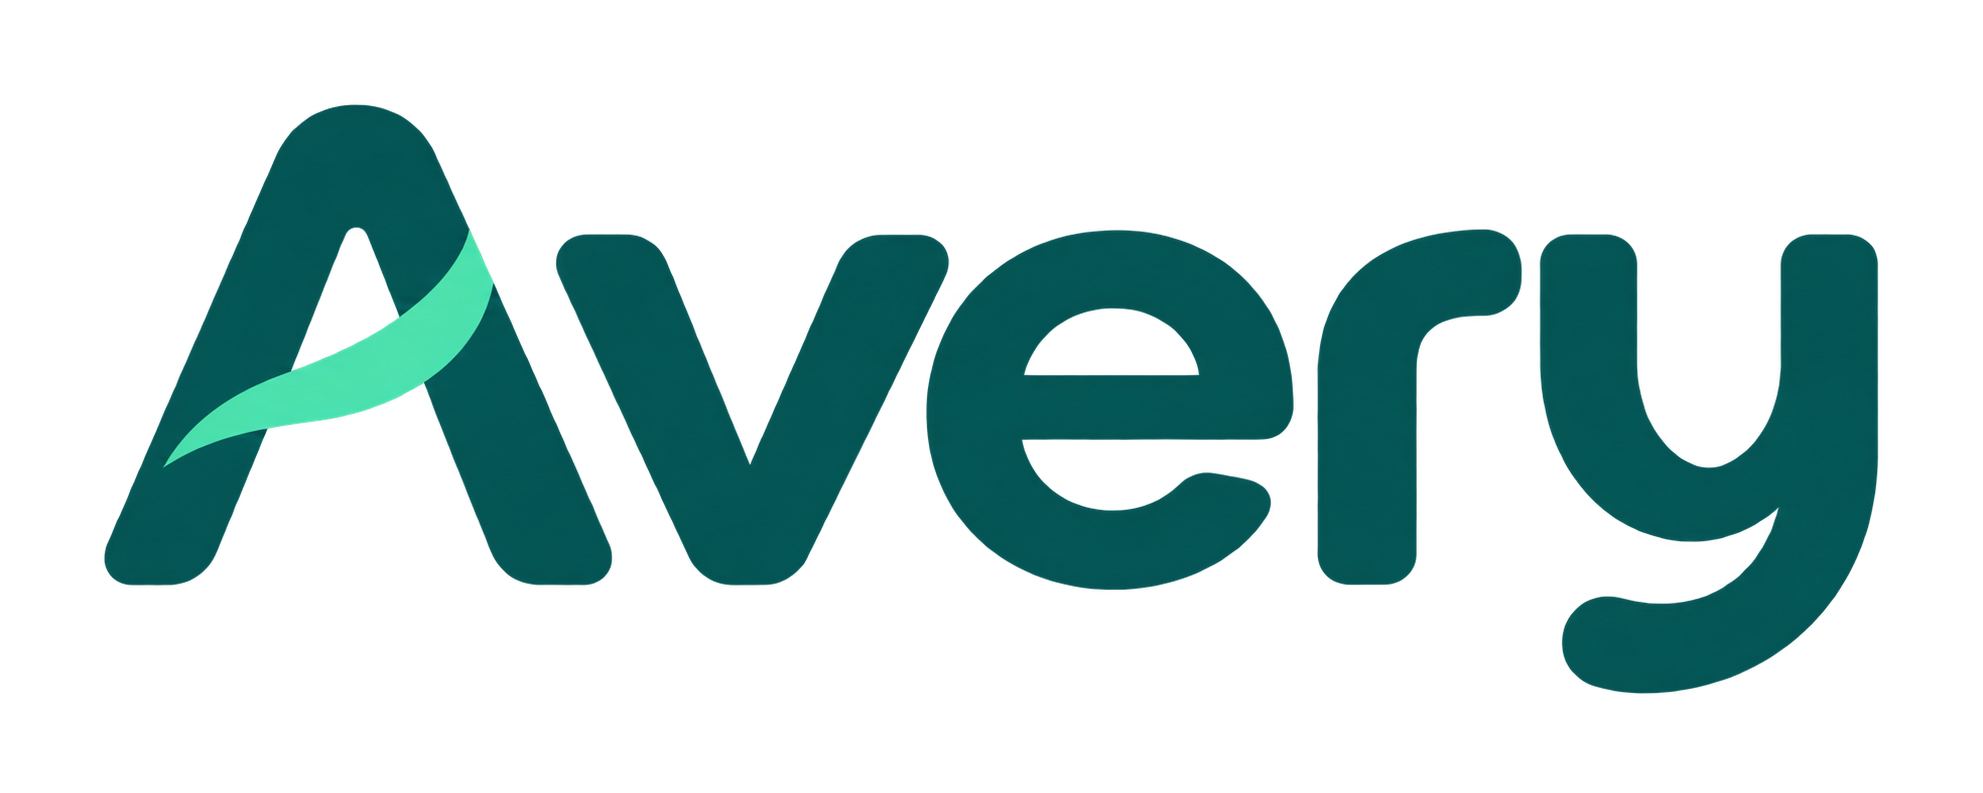
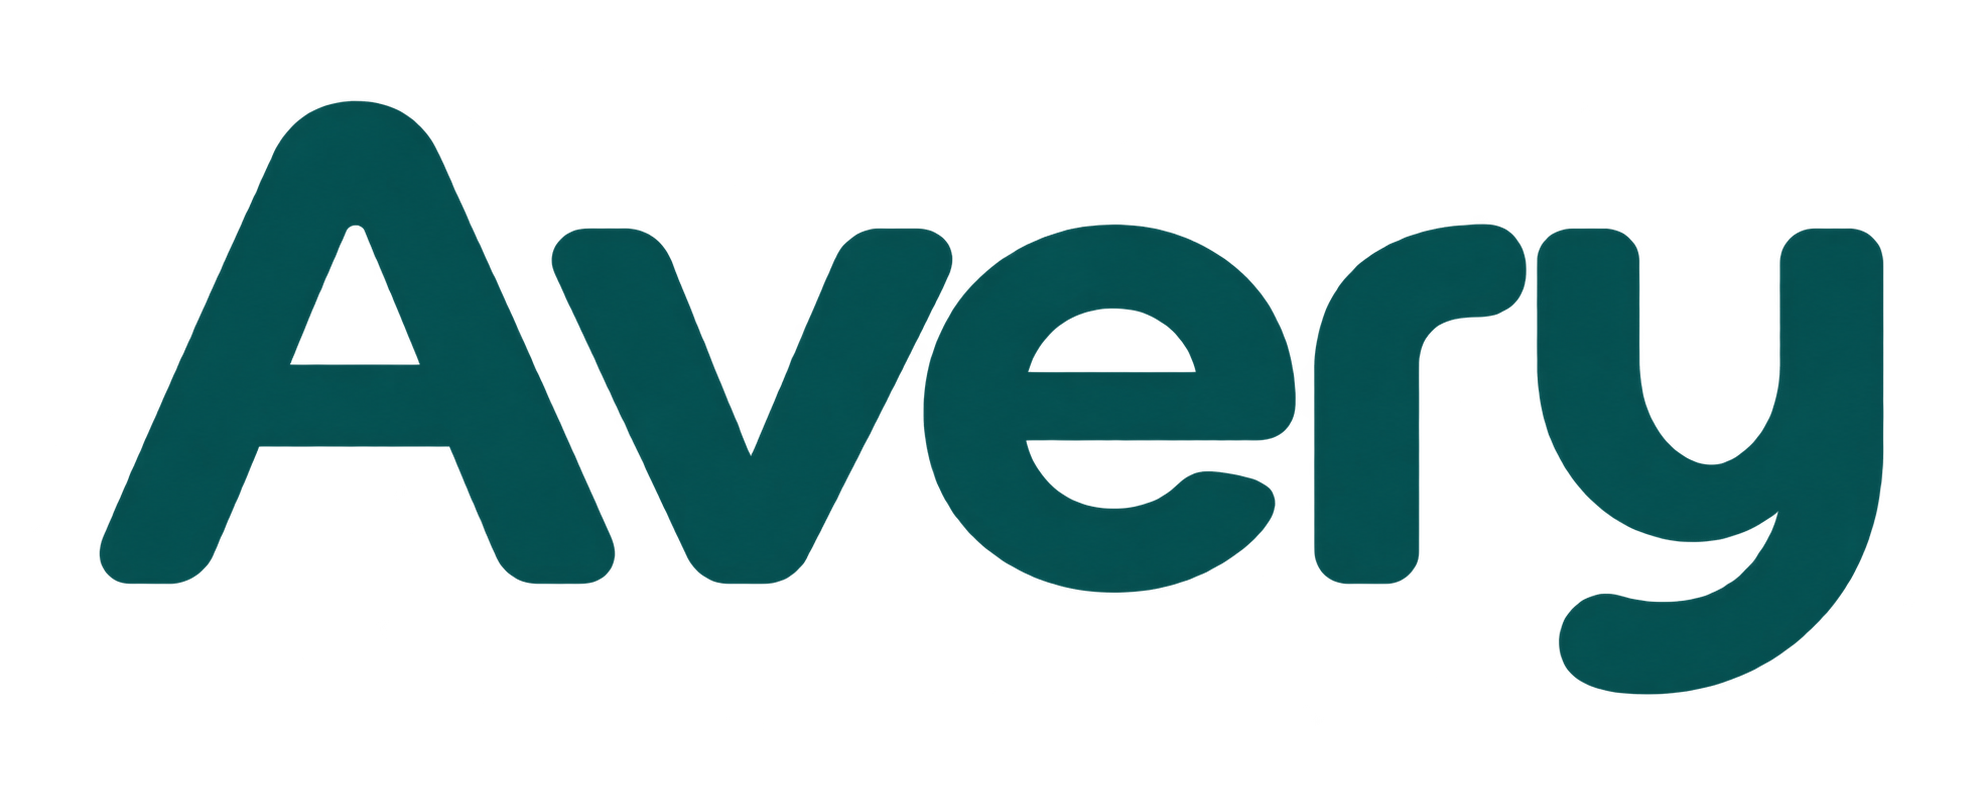
fix(brand): 更新字标并调整启动页品牌对齐与页面样式

diff --git a/src/app/StartupScreen.tsx b/src/app/StartupScreen.tsx
@@ -1,9 +1,19 @@
 import { useEffect, useRef, useState } from 'react';
-import { BrandAssets } from '../shared/brand';
+import { BrandAssets, BrandGeometry } from '../shared/brand';
 import { Button, EmptyState } from '../shared/components/UI';
 import { Icon } from '../shared/components/Icon';
 
 type Props = { animationComplete: boolean; onAnimationComplete: () => void };
+
+// 字标保留原画布尺寸，起点向右留出放大图标所需的间距。
+const WordmarkBox = { x: 96, y: 0, width: 280, height: 112 };
+const WordmarkScale = Math.min(WordmarkBox.width / BrandGeometry.wordmark.width, WordmarkBox.height / BrandGeometry.wordmark.height);
+const WordmarkOffsetY = (WordmarkBox.height - BrandGeometry.wordmark.height * WordmarkScale) / 2;
+// 图片含透明留白；按 A 的实际上下边界计算图标大小与位置，使两者可见轮廓等高、底边对齐。
+const SplashIconSize = (BrandGeometry.wordmark.capitalBottom - BrandGeometry.wordmark.capitalTop) * WordmarkScale
+  * BrandGeometry.icon.height / (BrandGeometry.icon.bottom - BrandGeometry.icon.top);
+const SplashIconY = WordmarkBox.y + WordmarkOffsetY + BrandGeometry.wordmark.capitalTop * WordmarkScale
+  - BrandGeometry.icon.top / BrandGeometry.icon.height * SplashIconSize;
 
 /** 开屏只播放一次；动画结束后保持最后一帧，由上层等待工作空间就绪。 */
 export function StartupScreen({ animationComplete, onAnimationComplete }: Props) {
@@ -44,7 +54,7 @@ export function StartupScreen({ animationComplete, onAnimationComplete }: Props)
 
   return <div className="app-screen app-splash" role="status" aria-live="polite" aria-label="正在启动 Avery" aria-busy="true">
     <div className="app-splash-content">
-      <svg className="app-splash-brand" viewBox="0 0 360 112" role="img" aria-label="Avery">
+      <svg className="app-splash-brand" viewBox={`0 0 ${WordmarkBox.x + WordmarkBox.width} ${WordmarkBox.height}`} role="img" aria-label="Avery">
         <defs>
           <linearGradient id="avery-splash-reveal-gradient" x1="0" y1="0" x2="1" y2="0">
             <stop offset="0" stopColor="white" /><stop offset="0.76" stopColor="white" /><stop offset="1" stopColor="white" stopOpacity="0" />
@@ -56,8 +66,8 @@ export function StartupScreen({ animationComplete, onAnimationComplete }: Props)
           </mask>
         </defs>
         <g mask="url(#avery-splash-reveal-mask)">
-          <image href={BrandAssets.icon} x="0" y="24" width="64" height="64" preserveAspectRatio="xMidYMid meet" />
-          <image href={BrandAssets.wordmark} x="80" y="0" width="280" height="112" preserveAspectRatio="xMidYMid meet" />
+          <image href={BrandAssets.icon} x="0" y={SplashIconY} width={SplashIconSize} height={SplashIconSize} preserveAspectRatio="xMidYMid meet" />
+          <image href={BrandAssets.wordmark} {...WordmarkBox} preserveAspectRatio="xMidYMid meet" />
         </g>
       </svg>
     </div>

diff --git a/src/styles/shell.css b/src/styles/shell.css
@@ -483,7 +483,6 @@ button { background: none; border: 0; }
   text-align: center; animation: viewIn .5s var(--ease) both;
 }
 .empty h1 { display: inline-flex; align-items: center; justify-content: center; gap: .35em; max-width: 100%; font-size: 26px; font-weight: 640; letter-spacing: -.02em; margin: 0; }
-.empty-greeting-icon { display: block; width: 32px; height: 32px; flex: none; object-fit: contain; }
 .empty h1 > span { min-width: 0; overflow-wrap: anywhere; }
 
 /* 输入框底座：消息区之上的渐变衬底 + 792px 居中列 */
@@ -1857,8 +1856,7 @@ body.settings-has-configured-api-key .model-set-scope .set-field:has(input[type=
   background-color: var(--control-focus-surface);
 }
 :root .tr-search:focus-within { background-color: var(--control-focus-surface); }
-/* 导航栏搜索单独使用浅绿聚焦底，内部输入区保持透明，避免出现白色拼块。 */
-:root .sb-history-search:focus-within { background-color: var(--accent-soft); }
+/* 导航栏搜索聚焦不改变颜色，内部输入区保持透明，避免全局聚焦底色形成色块。 */
 :root .sb-history-search input:focus { background: transparent; }
 
 .app-toast[data-tone="pending"] > .ph { animation: toastPendingSpin .8s linear infinite; }

diff --git a/src/features/assistant/pages/AssistantPage.tsx b/src/features/assistant/pages/AssistantPage.tsx
@@ -22,7 +22,6 @@ import {
 } from '../../../features/assistant/api/agentQueries';
 import { Button, DialogButton, Modal, Select } from '../../../shared/components/UI';
 import { Icon, type IconName } from '../../../shared/components/Icon';
-import { BrandAssets } from '../../../shared/brand';
 import { MarkdownText } from '../../../shared/components/MarkdownText';
 import { ASSISTANT_MAIN_MIN_WIDTH } from '../../../shared/layoutConstants';
 import { CalculateTokenSharePercent, CreateSessionTokenUsage, CreateSessionUsagePresentation } from '../usagePresentation';
@@ -1253,7 +1252,7 @@ function ConfirmationComposer({ title, description, preview, confirmLabel, onCan
 
 /** 新建对话界面：两个场景统一使用原型问候语，与输入框一起垂直居中。 */
 function EmptyAssistant({ name }: { name: string }) {
-  return <div className="empty"><h1><img className="empty-greeting-icon" src={BrandAssets.icon} alt="" aria-hidden="true" /><span>{name ? `你好${name}，需要什么帮助？` : '你好，需要什么帮助？'}</span></h1></div>;
+  return <div className="empty"><h1><span>{name ? `你好${name}，需要什么帮助？` : '你好，需要什么帮助？'}</span></h1></div>;
 }
 
 export { AssistantPage };

diff --git a/src/shared/brand.ts b/src/shared/brand.ts
@@ -4,8 +4,14 @@ export const BrandAssets = {
   wordmark: './assets/avery-wordmark.png',
 } as const;
 
-/** 原图中 alpha >= 128 的可见底边比例；字标以 A 的底边为准，排除 y 的下伸部分。 */
+/** 原图中 alpha >= 128 的可见边界；字标取 A，排除透明留白与 y 的下伸部分。资源更换时同步更新。 */
+export const BrandGeometry = {
+  icon: { width: 1254, height: 1254, top: 261, bottom: 1076 },
+  wordmark: { width: 1983, height: 793, capitalTop: 101, capitalBottom: 584 },
+} as const;
+
+/** 顶部栏按可见底边对齐，启动页复用相同资源度量。 */
 export const BrandBaselines = {
-  icon: 1076 / 1254,
-  wordmarkCapital: 585 / 793,
+  icon: BrandGeometry.icon.bottom / BrandGeometry.icon.height,
+  wordmarkCapital: BrandGeometry.wordmark.capitalBottom / BrandGeometry.wordmark.height,
 } as const;
